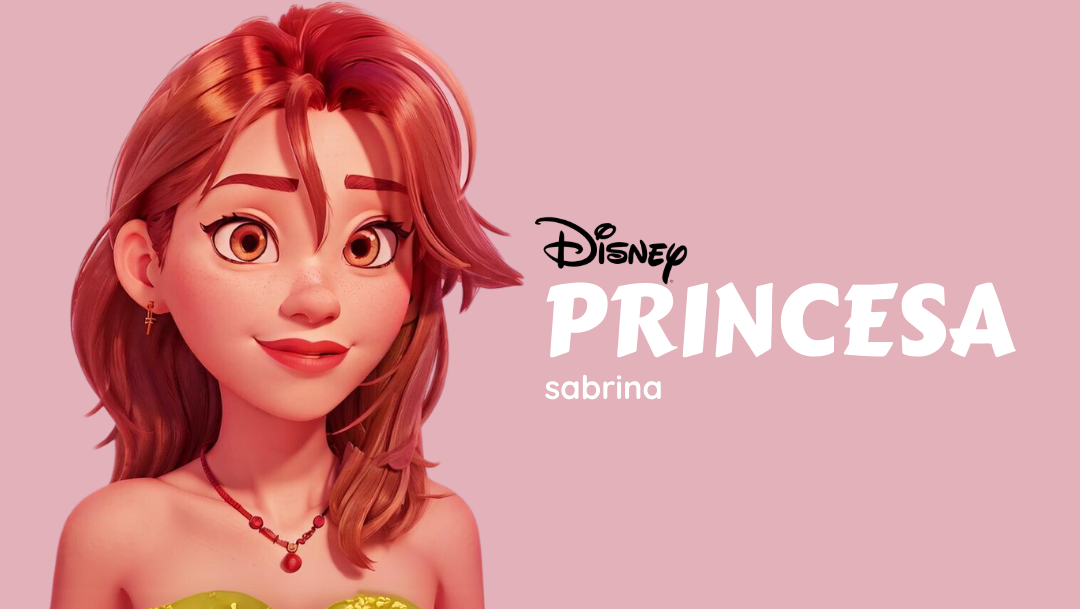
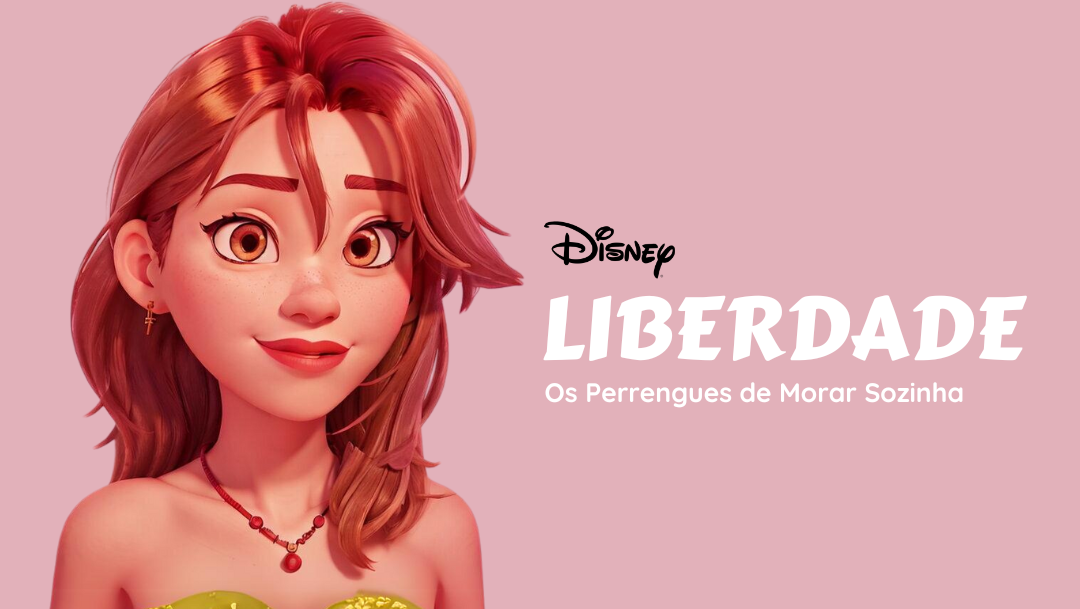
adicionado um modal inicial no comeco

Changed region(s): [[0.4889, 0.3432, 0.9472, 0.5928], [0.4889, 0.624, 0.8861, 0.6864]]

diff --git a/src/utils/dbMovies.js b/src/utils/dbMovies.js
@@ -1,7 +1,108 @@
 export const moviesItems = [
   {
+    title: "Recomendações",
+    data: [
+      {
+        id: 8,
+        title: "Eternizar - Um Amor que Transcende o Tempo",
+        poster_path: "./images/filmes/8.png",
+        overview:
+          "Em um mundo mágico, vivia Sabrina, uma menina curiosa com um sonho: viajar no tempo. \n Um dia, encontrou um antigo relógio dourado escondido em seu sótão. \n Ao tocá-lo, Sabrina foi transportada para uma época distante, onde conheceu Marcelo, um aventureiro de olhos brilhantes. \n Juntos, exploraram florestas encantadas, navegaram em mares tempestuosos e enfrentaram perigos inimagináveis. \n Entre risadas e confidências, um amor puro e sincero floresceu entre eles. \n Mas, o tempo inexorável os chamava de volta. \n Ao se despedirem, Sabrina e Marcelo prometeram nunca se esquecer. \n De volta ao seu tempo, Sabrina guardou as memórias no coração e, com o relógio dourado em mãos, viajava secretamente para reencontrar seu amado Marcelo em diferentes eras. \n Através do tempo, seu amor se fortaleceu, desafiando as leis da física e da lógica. \n E assim, Sabrina e Marcelo provaram que o amor verdadeiro é capaz de eternizar-se, transcendendo o tempo e unindo almas em uma aventura sem fim.",
+      },
+      {
+        id: 12,
+        title: "Liberdade - Os Perrengues de Morar Sozinha",
+        poster_path: "./images/filmes/12.png",
+        overview:
+          "Sabrina, uma adolescente cheia de sonhos e desejos, se sente presa pelas regras chatas dos seus pais.  \n  Ela sonha com liberdade, com poder fazer suas próprias escolhas e viver a vida do seu jeito.  \n Cansada de tanta mesmice, decide um plano audacioso: fugir de casa e morar sozinha! Mas será que a vida independente é tudo aquilo que Sabrina imagina?  \n Prepare-se para uma comédia hilária que mostra os perrengues que a esperam nessa nova aventura.  \n Descubra se ela vai conseguir lidar com as tarefas domésticas, cozinhar suas próprias refeições e, o mais importante, lidar com a solidão. \n \n Liberdade: Os Perrengues de Morar Sozinha é uma história divertida e emocionante que vai te fazer rir e refletir sobre os desafios e alegrias de ser independente.",
+      },
+      {
+        id: 30,
+        title: "Elemental",
+        poster_path: "./images/filmes/30.png",
+        overview:
+          "Em Elementalis, cidade mágica, vivia Sabrina, água com cabelos azuis e sorriso tranquilo como o mar. \n Lá também morava Marcelo, fogo com cabelos cor de chama e espírito quente como o sol. \n Desde pequenos, se sentiam próximos, como se suas naturezas opostas se completassem. \n Mas seus pais discordavam: 'Água e fogo não combinam!'. \n Mesmo assim, Sabrina e Marcelo se encontravam em segredo, dividindo histórias, sonhos e um sentimento que crescia cada vez mais. \n Juntos, descobriram que o amor verdadeiro supera qualquer diferença. \n Com o tempo, a paixão deles aqueceu os corações das pessoas. \n Todos perceberam que a união dos elementos era a força e beleza de Elementalis. \n No final, entenderam que o amor verdadeiro não tem limites. \n Sabrina e Marcelo viveram felizes para sempre, unindo seus elementos e iluminando a cidade com a chama do amor.",
+      },
+      {
+        id: 4,
+        title: "Crepúsculo",
+        poster_path: "./images/series/4.png",
+        overview:
+          "Sabrina, estudante de Designer, sempre se sentiu atraída pelo mistério. \n Na aula de Fundamentos do Design, seus olhos se fixaram em Marcelo, um aluno novo de corpo atlético e olhos pretos que hipnotizavam. \n Um fascínio inexplicável a dominou. Marcelo era enigmático, envolto em um halo de perigo. \n Sabrina o flagrava em situações estranhas, sempre sozinho, sempre na penumbra. \n A cada encontro furtivo em bibliotecas ou no bosque atrás da faculdade, a tensão entre desejo e receio crescia. \n Em uma noite de luar, sob a luz crepuscular, Marcelo revelou sua verdadeira natureza: um vampiro.  \n Horrorizada, Sabrina se viu dividida entre o medo e a paixão avassaladora que ele despertava. \n \n Poderia o amor florescer entre a humana e um vampiro?",
+      },
+      {
+        id: 6,
+        title: "Bridgerton",
+        poster_path: "./images/series/6.png",
+        overview:
+          "Sabrina, herdeira da rica família Bridgerton, passeava a cavalo por seus domínios quando um obstáculo a fez cair. \n Machucada e atordoada, ela foi amparada por Marcelo, um jovem mecânico que consertava seu carro velho nas proximidades. \n A química entre os dois foi instantânea, apesar da óbvia disparidade social. Noites de encontros secretos se tornaram rotina, regadas por conversas sussurradas e carícias roubadas. \n O amor florescia em segredo, desafiando as expectativas da sociedade Bridgerton. \n Em um momento de paixão avassaladora, entregaram-se ao desejo em meio aos fardos de feno do estábulo, seus corpos se unindo em uma dança proibida de amor e luxúria. \n Descobertos pelos pais de Sabrina, o romance foi proibido. \n Mas o amor era mais forte que as convenções. \n Sob a luz prateada da lua, os dois amantes fugiram, deixando para trás a opulência e as regras sufocantes da alta sociedade. \n Juntos, construíram uma vida simples, onde o amor e a liberdade reinavam. \n A riqueza de Sabrina não era mais necessária, pois a verdadeira riqueza era o amor que os unia. \n E assim, viveram felizes para sempre, provando que o amor verdadeiro transcende todas as barreiras, até mesmo as da própria Bridgerton.",
+      },
+      {
+        id: 3,
+        title: "Princesa Sabrina",
+        poster_path: "./images/series/3.png",
+        overview:
+          "No alto das montanhas nevadas, erguia-se o imponente Castelo de Gelo, lar da Princesa Sabrina. \n Seus cabelos brancos como a neve e olhos azuis como o gelo refletiam a gélida beleza de suas terras. \n Apesar da realeza e do conforto, um frio pungente apertava seu coração. \n Sabrina ansiava por calor, por um raio de sol que derretesse a neve que cobria seu reino e libertasse seu povo do inverno eterno. \n Em uma noite de lua cheia, guiada por um antigo mapa, Sabrina partiu em busca da lendária Chama Eterna, a única capaz de aquecer seu reino. \n Através de florestas congeladas e cavernas escuras, enfrentou criaturas gélidas e tempestades de neve, com a chama da esperança a aquecendo por dentro. \n Finalmente, após árdua jornada, Sabrina encontrou a Chama Eterna. Com um toque, acendeu a tocha que carregava e retornou ao seu castelo. \n A cada passo, o gelo derretia, flores desabrochavam e o sol brilhava pela primeira vez em séculos. \n O povo de Sabrina se regozijava, saudando-a como a princesa que trouxe a primavera de volta ao reino.",
+      },
+      {
+        id: 1,
+        title: "Witch Loki",
+        poster_path: "./images/filmes/1.png",
+        overview: [
+          "Sabrina, uma agente da TVA presa em um universo paralelo, logo se depara com a verdade: ela é a Variante Loki, uma feiticeira poderosa com um passado sombrio e um destino incerto. \n Assim como seu homólogo divino, Sabrina se vê em meio a uma conspiração que ameaça a realidade e precisa usar seus poderes e trapaças para sobreviver e navegar por esse novo mundo.\n \n Em breve, Sabrina descobrirá que sua magia e identidade estão entrelaçadas com o destino do multiverso.",
+        ],
+      },
+    ],
+  },
+  {
+    title: "Bombando",
+    data: [
+      {
+        id: 6,
+        title: "Bridgerton",
+        poster_path: "./images/series/6.png",
+        overview:
+          "Sabrina, herdeira da rica família Bridgerton, passeava a cavalo por seus domínios quando um obstáculo a fez cair. \n Machucada e atordoada, ela foi amparada por Marcelo, um jovem mecânico que consertava seu carro velho nas proximidades. \n A química entre os dois foi instantânea, apesar da óbvia disparidade social. Noites de encontros secretos se tornaram rotina, regadas por conversas sussurradas e carícias roubadas. \n O amor florescia em segredo, desafiando as expectativas da sociedade Bridgerton. \n Em um momento de paixão avassaladora, entregaram-se ao desejo em meio aos fardos de feno do estábulo, seus corpos se unindo em uma dança proibida de amor e luxúria. \n Descobertos pelos pais de Sabrina, o romance foi proibido. \n Mas o amor era mais forte que as convenções. \n Sob a luz prateada da lua, os dois amantes fugiram, deixando para trás a opulência e as regras sufocantes da alta sociedade. \n Juntos, construíram uma vida simples, onde o amor e a liberdade reinavam. \n A riqueza de Sabrina não era mais necessária, pois a verdadeira riqueza era o amor que os unia. \n E assim, viveram felizes para sempre, provando que o amor verdadeiro transcende todas as barreiras, até mesmo as da própria Bridgerton.",
+      },
+      {
+        id: 11,
+        title: "RESTART - Together Forever",
+        poster_path: "./images/series/11.png",
+        overview:
+          "Sabrina e Marcelo, após superarem as dificuldades, celebram o Ano Novo em um chalé aconchegante. \n A música da Restart embala a noite enquanto relembram momentos marcantes. \n Na virada do ano, selam seu amor com um beijo apaixonado. \n Marcelo, aproveitando a ocasião, faz um pedido de namoro especial, com anel e tudo mais. \n Sabrina, emocionada, aceita e eles se declaram um para o outro. \n Sob a luz das estrelas e a neve caindo, selam seu amor para sempre, prontos para construir uma vida juntos, repleta de amor, companheirismo e superação. \n \n A música da Restart continua sendo a trilha sonora de sua história, um lembrete da força do amor que os uniu e que os guiará para sempre.",
+      },
+      {
+        id: 13,
+        title: "Stranger Things 2",
+        poster_path: "./images/series/13.png",
+        overview:
+          "Um ano se passou. \n A vida em Hawkins parece ter voltado ao normal, mas a calma é enganosa. \n Uma nova ameaça surge: a mente colmeia, um monstro que busca consumir tudo em seu caminho. \n Sabrina e Marcelo, agora mais experientes, lideram a resistência contra a criatura, enquanto desvendam os segredos obscuros do laboratório e a origem dos seus poderes. \n Lays, utilizando suas habilidades de hacker, intercepta mensagens do governo e desvenda pistas cruciais para deter a mente colmeia. \n Arthur, com sua lealdade e espírito de equipe, une o grupo e os motiva a seguir em frente, mesmo diante dos perigos.",
+      },
+      {
+        id: 7,
+        title: "Meu Primeiro Dia",
+        poster_path: "./images/filmes/7.png",
+        overview:
+          "Sabrina, patricinha rebelde e acostumada com a vida mimada, ingressa na prestigiada Universidade Imperial. \n O choque de realidade a atinge em cheio: colegas de diferentes classes sociais, professores exigentes e regras rígidas a desafiam. \n Entre a rebeldia e a necessidade de se adaptar, Sabrina terá que enfrentar seus próprios preconceitos e descobrir que a vida universitária é muito mais do que festas e curtição.",
+      },
+      {
+        id: 17,
+        title: "Django",
+        poster_path: "./images/filmes/17.png",
+        overview:
+          "Em um Brasil dominado por coronéis brutais, Marcelo, um ex-escravo em busca de vingança, une forças com a pistoleiro Toba e o sábio Zé Cueca. \n Juntos, cruzam o sertão em busca do cruel latifundiário Hemorroida-Branca, que aterroriza a região com seus capangas. \n Entre tiroteios épicos, fugas mirabolantes e reviravoltas inesperadas, Djangao busca justiça e liberdade para todos os oprimidos, nesse faroeste brasileiro regado a ação, humor e muito sangue.",
+      },
+      {
+        id: 2,
+        title: "Love of Thrones - Coração de Fogo",
+        poster_path: "./images/series/2.png",
+        overview:
+          "Anos se passam e Sabrina e para sua surpresa, o ovo eclode e revela um filhote de dragão azul marrom, que ela batiza de Maya. \n Juntas, Sabrina e Maya embarcam em uma aventura pelo mundo, explorando terras desconhecidas e enfrentando desafios emocionantes.",
+      },
+    ],
+  },
+  {
     title: "Filmes",
-    category: "Filmes",
     data: [
       {
         id: 1,
@@ -83,10 +184,10 @@ export const moviesItems = [
       },
       {
         id: 12,
-        title: "Princesa sabrina",
+        title: "Liberdade - Os Perrengues de Morar Sozinha",
         poster_path: "./images/filmes/12.png",
         overview:
-          "Sabrina, a princesa de coração valente, e seu fiel companheiro Lua, um gatinho travesso, embarcam em uma jornada épica! \n Juntos, eles desbravam florestas encantadas, escalam montanhas altíssimas e desvendam segredos ancestrais. \n Prepare-se para muita ação, amizade e momentos hilários nessa aventura inesquecível!",
+          "Sabrina, uma adolescente cheia de sonhos e desejos, se sente presa pelas regras chatas dos seus pais.  \n  Ela sonha com liberdade, com poder fazer suas próprias escolhas e viver a vida do seu jeito.  \n Cansada de tanta mesmice, decide um plano audacioso: fugir de casa e morar sozinha! Mas será que a vida independente é tudo aquilo que Sabrina imagina?  \n Prepare-se para uma comédia hilária que mostra os perrengues que a esperam nessa nova aventura.  \n Descubra se ela vai conseguir lidar com as tarefas domésticas, cozinhar suas próprias refeições e, o mais importante, lidar com a solidão. \n \n Liberdade: Os Perrengues de Morar Sozinha é uma história divertida e emocionante que vai te fazer rir e refletir sobre os desafios e alegrias de ser independente.",
       },
       {
         id: 13,
@@ -200,11 +301,24 @@ export const moviesItems = [
         overview:
           "Sabrina, garçonete em um charmoso diner dos anos 60, se encanta com o Marcelo, um cliente misterioso de sorriso cativante. \n Entre conversas animadas e milkshakes compartilhados, nasce um doce romance. \n Mas a vida de Marcelo guarda segredos perigosos. \n Envolvido em uma encrenca obscura, ele se vê dividido entre o amor por Sabrina e a lealdade a um passado nebuloso. \n Será que o amor de Sabrina terá força para superar os obstáculos que os separam? \n\n Em meio ao agito vibrante da década de 60, uma história de amor proibido floresce, desafiando segredos e colocando em risco tudo que Sabrina sempre sonhou.",
       },
+      {
+        id: 29,
+        title: "Kerpen Potter",
+        poster_path: "./images/filmes/29.png",
+        overview:
+          "Em um mundo onde a magia é real, Sabrina, uma jovem de onze anos, descobre que é uma feiticeira no dia de seu aniversário. Criada por seus tios maldosos na pequena cidade de Kerpen, ela sempre se sentiu deslocada e diferente. Tudo muda quando uma coruja entrega uma carta de admissão para a Academia de Magia de Hinterwald. Lá, Sabrina faz novos amigos leais, como Arthur e Lays, e encontra desafios inesperados, incluindo um sombrio feiticeiro que ameaça a paz do mundo mágico. Sabrina descobre que seus pais eram poderosos feiticeiros, mortos por esse mesmo vilão, e que ela possui um destino especial. Com coragem e determinação, ela enfrenta perigos e desvenda mistérios, enquanto aprende sobre a verdadeira força da amizade e da magia.",
+      },
+      {
+        id: 30,
+        title: "Elemental",
+        poster_path: "./images/filmes/30.png",
+        overview:
+          "Em Elementalis, cidade mágica, vivia Sabrina, água com cabelos azuis e sorriso tranquilo como o mar. \n Lá também morava Marcelo, fogo com cabelos cor de chama e espírito quente como o sol. \n Desde pequenos, se sentiam próximos, como se suas naturezas opostas se completassem. \n Mas seus pais discordavam: 'Água e fogo não combinam!'. \n Mesmo assim, Sabrina e Marcelo se encontravam em segredo, dividindo histórias, sonhos e um sentimento que crescia cada vez mais. \n Juntos, descobriram que o amor verdadeiro supera qualquer diferença. \n Com o tempo, a paixão deles aqueceu os corações das pessoas. \n Todos perceberam que a união dos elementos era a força e beleza de Elementalis. \n No final, entenderam que o amor verdadeiro não tem limites. \n Sabrina e Marcelo viveram felizes para sempre, unindo seus elementos e iluminando a cidade com a chama do amor.",
+      },
     ],
   },
   {
     title: "Séries",
-    category: "Séries",
     data: [
       {
         id: 1,
@@ -331,6 +445,13 @@ export const moviesItems = [
         poster_path: "./images/series/18.png",
         overview:
           "Sob a aparência inocente de um felino doméstico, esconde-se um predador nato. \n O gato, com suas garras afiadas e mordida potente, é mestre do disfarce e do ataque surpresa. \n No documentário 'Animais Perigosos', revelamos a verdade por trás dos ronronados e das fofuras: um caçador implacável, capaz de derrubar presas muito maiores que ele. \n Descubra os segredos da anatomia mortal do gato e as técnicas de emboscada que o tornam um dos predadores mais eficientes do planeta. \n \n Prepare-se para mudar sua visão sobre o seu bichano de estimação. \n 'Animais Perigosos': o lado selvagem dos gatos.",
+      },
+      {
+        id: 19,
+        title: "The Witch",
+        poster_path: "./images/series/19.png",
+        overview:
+          "Em um mundo devastado por conflitos e magia, Sabrina, uma poderosa feiticeira, luta para proteger seu reino de forças sombrias. \n  Criada e treinada pelos anciões da Ordem dos Magos, Sabrina domina feitiços ancestrais e habilidades de combate excepcionais. \n  Sua jornada se cruza com a de Geralt, um bruxo caçador de monstros, quando uma profecia antiga revela que ambos são a chave para restaurar o equilíbrio no mundo. \n  À medida que enfrentam criaturas sobrenaturais e inimigos humanos, Sabrina descobre segredos sobre sua própria origem que mudam tudo o que ela sabia sobre seu destino. \n  Enfrentando traições e alianças inesperadas, ela precisa encontrar forças dentro de si para combater o mal crescente que ameaça engolir tudo que ela ama. \n \n  'The Witch' é uma saga épica de coragem, magia e a luta interminável entre luz e escuridão.",
       },
     ],
   },

diff --git a/src/components/MsgInicial/index.js b/src/components/MsgInicial/index.js
@@ -1,0 +1,56 @@
+import React from "react";
+import { Box, Typography, Button } from "@mui/material";
+import "./style.scss";
+
+const MsgInicial = ({ handleClose }) => {
+  return (
+    <Box className="msgMoviesContainer">
+      <div className="msgMovies">
+        <div className="msgMoviesTexts">
+          <Box
+            display="flex"
+            flexDirection="column"
+            justifyContent="center"
+            alignItems="center"
+          >
+            <Typography variant="h4" sx={{ textAlign: "center" }}>
+              Bem-vinda ao nosso
+            </Typography>
+            <Typography
+              variant="h4"
+              sx={{
+                textAlign: "center",
+                fontWeight: "bold",
+                color: "#009ce9",
+              }}
+            >
+              Disney Plus
+            </Typography>
+            <Typography variant="h5" sx={{ mt: 5 }}>
+              Prepare-se para uma viagem mágica, onde cada filme e serie conta
+              um pedacinho da nossa história ou nos leva a mundos de fantasia e
+              histórias engraçadas. <br />
+              Tudo aqui foi feito com muito carinho para você, para lembrar o
+              quanto eu te amo. <br />
+              Com todo meu carinho e amor, Marcelo.
+            </Typography>
+            <Typography variant="h6" sx={{ mt: 5 }}>
+              Aperte o botão e deixe a mágica começar!
+            </Typography>
+            <Button
+              variant="contained"
+              color="success"
+              size="large"
+              onClick={handleClose}
+              sx={{ marginTop: 3 }}
+            >
+              entrar
+            </Button>
+          </Box>
+        </div>
+      </div>
+    </Box>
+  );
+};
+
+export default MsgInicial;

diff --git a/src/pages/Home/index.js b/src/pages/Home/index.js
@@ -1,12 +1,17 @@
-import React from "react";
+import React, { useState } from "react";
+import { Modal } from "@mui/material";
 import CollectionList from "../../components/CollectionList";
 import SliderComponent from "../../components/SliderComponent";
 import MovieList from "../../components/MovieList";
 import Header from "../../components/Header";
-import "./styles.scss";
 import Footer from "../../components/Footer";
+import MsgInicial from "../../components/MsgInicial";
+import "./styles.scss";
 
 const Home = () => {
+  const [open, setOpen] = useState(true);
+  const handleClose = () => setOpen(false);
+
   return (
     <div>
       <main>
@@ -15,6 +20,15 @@ const Home = () => {
         <CollectionList />
         <MovieList />
         <Footer />
+
+        <Modal
+          open={open}
+          onClose={handleClose}
+          aria-labelledby="modal-modal-title"
+          aria-describedby="modal-modal-description"
+        >
+          <MsgInicial handleClose={handleClose} />
+        </Modal>
       </main>
     </div>
   );

diff --git a/src/components/MsgInicial/style.scss b/src/components/MsgInicial/style.scss
@@ -1,0 +1,44 @@
+.msgMoviesContainer {
+  display: flex;
+  flex-direction: column;
+  align-items: center;
+  position: fixed;
+  top: 0%;
+  left: 0%;
+  width: 100%;
+  height: 100%;
+  background-color: rgba(0, 0, 0, 0.4);
+  color: #fff;
+  padding: 50px 20px;
+  overflow: auto;
+  z-index: 2;
+
+  .msgMovies {
+    position: relative;
+    display: flex;
+    flex-direction: column;
+    background-color: #fff;
+    max-width: 700px;
+    border-radius: 20px;
+    box-shadow: 0px 0px 30px -5px #5e5e5e;
+    z-index: 3;
+
+    .msgMoviesTexts {
+      padding: 70px 50px;
+      border-radius: 20px;
+      color: #111;
+    }
+  }
+}
+
+@media (max-width: 600px) {
+  .msgMoviesContainer {
+    .msgMovies {
+      .msgMoviesTexts {
+        padding: 7%;
+        padding-bottom: 70px;
+        text-align: center;
+      }
+    }
+  }
+}

diff --git a/src/components/CollectionCard/style.scss b/src/components/CollectionCard/style.scss
@@ -3,11 +3,12 @@
   height: 100%;
   width: 100%;
   box-shadow: 0px 25px 30px -10px rgba(0, 0, 0, 0.7);
-  cursor: pointer;
+  //cursor: pointer;
   overflow: hidden;
   border: 3px solid transparent;
   border-radius: 10px;
   transition: all 0.3s ease;
+  cursor: default;
 
   img {
     position: relative;
@@ -28,13 +29,13 @@
     border-radius: 10px;
   }
 
-  &:hover {
-    border-color: rgba(249, 249, 249, 0.7);
-    box-shadow: 0px 40px 58px -10px rgba(0, 0, 0, 0.7);
-    transform: scale(1.05);
+  // &:hover {
+  //   border-color: rgba(249, 249, 249, 0.7);
+  //   box-shadow: 0px 40px 58px -10px rgba(0, 0, 0, 0.7);
+  //   transform: scale(1.05);
 
-    video {
-      opacity: 1;
-    }
-  }
+  //   video {
+  //     opacity: 1;
+  //   }
+  // }
 }

diff --git a/src/components/MovieList/index.js b/src/components/MovieList/index.js
@@ -71,8 +71,8 @@ const MovieList = () => {
         <>
           {moviesItems &&
             moviesItems?.map((category) => {
-              return (
-                <div key={category.category}>
+              return category.data.length >= 3 ? (
+                <div key={category.title}>
                   <Title style={{ margin: "0 10px 15px" }}>
                     {category.title}
                   </Title>
@@ -88,6 +88,8 @@ const MovieList = () => {
                     </Slider>
                   )}
                 </div>
+              ) : (
+                <></>
               );
             })}
         </>
